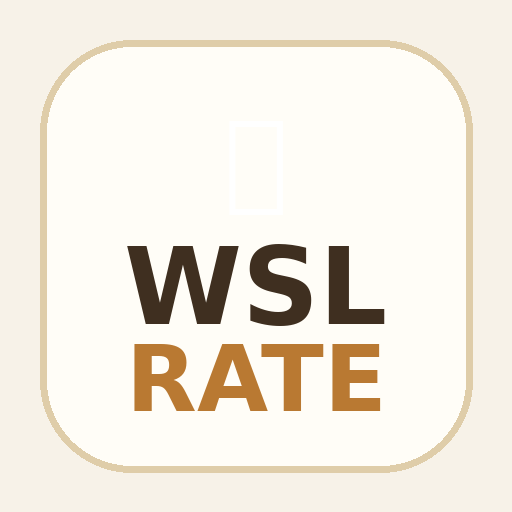
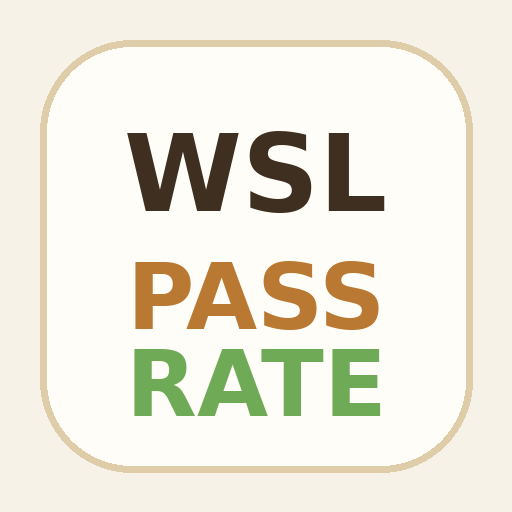
Add files via upload

Changed region(s): [[0.25, 0.4688, 0.75, 0.8125], [0.25, 0.25, 0.75, 0.4375]]

diff --git a/service-worker.js b/service-worker.js
@@ -1,30 +1,24 @@
-const CACHE_NAME = "wsl-passing-rate-v15";
+const CACHE_NAME = "wsl-passing-rate-v16";
 const FILES_TO_CACHE = [
-  "/",
-  "/index.html",
-  "/manifest.json",
-  "/icon-192.png",
-  "/icon-512.png"
+  "./",
+  "./index.html",
+  "./manifest.json",
+  "./icon-192.png",
+  "./icon-512.png"
 ];
 
 self.addEventListener("install", event => {
-  event.waitUntil(
-    caches.open(CACHE_NAME).then(cache => cache.addAll(FILES_TO_CACHE))
-  );
+  event.waitUntil(caches.open(CACHE_NAME).then(cache => cache.addAll(FILES_TO_CACHE)));
   self.skipWaiting();
 });
 
 self.addEventListener("activate", event => {
-  event.waitUntil(
-    caches.keys().then(keys =>
-      Promise.all(keys.map(key => key !== CACHE_NAME ? caches.delete(key) : null))
-    )
-  );
+  event.waitUntil(caches.keys().then(keys =>
+    Promise.all(keys.map(key => key !== CACHE_NAME ? caches.delete(key) : null))
+  ));
   self.clients.claim();
 });
 
 self.addEventListener("fetch", event => {
-  event.respondWith(
-    caches.match(event.request).then(cached => cached || fetch(event.request))
-  );
+  event.respondWith(caches.match(event.request).then(cached => cached || fetch(event.request)));
 });

diff --git a/index.html b/index.html
@@ -213,7 +213,7 @@ function liveCalc(){
 function clearForm(){
  editingId=null;formTitle.textContent="📝 New Record";saveBtn.textContent="Save Record";cancelEditBtn.classList.add("hidden");
  date.value=today();line.value="WSL1";shift.value="Day";supplier.value="";
- ["operators","total","failed","nocheck","remarks","otherReason"].forEach(id=>document.getElementById(id).value="");
+ ["total","failed","nocheck","remarks","otherReason"].forEach(id=>document.getElementById(id).value="");
  selectedReasons=[];otherReasonBox.classList.add("hidden");buildChips();liveCalc()
 }
 function cancelEdit(){clearForm()}
@@ -225,7 +225,7 @@ function saveRecord(){
  let p=t-f-n,checked=p+f,rate=checked?p/checked*100:0;
  let finalReasons=[...selectedReasons];
  if(finalReasons.includes("Other")&&otherReason.value.trim())finalReasons=finalReasons.map(x=>x==="Other"?"Other: "+otherReason.value.trim():x);
- let rec={id:editingId||Date.now(),date:date.value,line:line.value,shift:shift.value,supplier:supplierName,operators:Number(operators.value||0),total:t,failed:f,nocheck:n,pass:p,rate,reasons:finalReasons,remarks:remarks.value.trim()};
+ let rec={id:editingId||Date.now(),date:date.value,line:line.value,shift:shift.value,supplier:supplierName,total:t,failed:f,nocheck:n,pass:p,rate,reasons:finalReasons,remarks:remarks.value.trim()};
  let d=records();
  if(editingId){d=d.map(x=>x.id===editingId?rec:x)}else{d.push(rec)}
  setRecords(d);clearForm();renderAll();alert(editingId?"Record updated.":"Record saved.")
@@ -233,7 +233,7 @@ function saveRecord(){
 function editRecord(id){
  let r=records().find(x=>x.id===id); if(!r)return;
  editingId=id;formTitle.textContent="✏️ Edit Record";saveBtn.textContent="Update Record";cancelEditBtn.classList.remove("hidden");
- date.value=r.date;line.value=r.line;shift.value=r.shift;supplier.value=r.supplier;operators.value=r.operators||"";total.value=r.total;failed.value=r.failed;nocheck.value=r.nocheck;remarks.value=r.remarks||"";
+ date.value=r.date;line.value=r.line;shift.value=r.shift;supplier.value=r.supplier;total.value=r.total;failed.value=r.failed;nocheck.value=r.nocheck;remarks.value=r.remarks||"";
  selectedReasons=(r.reasons||[]).map(x=>x.startsWith("Other:")?"Other":x);
  buildChips(r.reasons||[]);
  let other=(r.reasons||[]).find(x=>x.startsWith("Other:"));
@@ -296,7 +296,7 @@ buildChips();liveCalc();renderAll();
 function exportBackup(){
  const payload={
   app:"Washing Line Passing Rate Report",
-  version:"v15",
+  version:"v16",
   exportedAt:new Date().toISOString(),
   localStorageKey:RECORD_KEY,
   records:records()

diff --git a/README.md b/README.md
@@ -1,0 +1,21 @@
+# Washing Line Passing Rate Report PWA V16
+
+Files to upload to GitHub Pages:
+- index.html
+- manifest.json
+- service-worker.js
+- icon-192.png
+- icon-512.png
+
+GitHub Pages setup:
+1. Put all files in the repo root.
+2. Go to Settings > Pages.
+3. Source: Deploy from a branch.
+4. Branch: main / root.
+5. Save.
+6. Open the generated github.io URL in Safari.
+7. Share > Add to Home Screen.
+
+Data storage:
+- Data is saved locally in the browser/app localStorage.
+- Use Suppliers > Backup / Restore > Export Backup to save JSON to iCloud Drive.